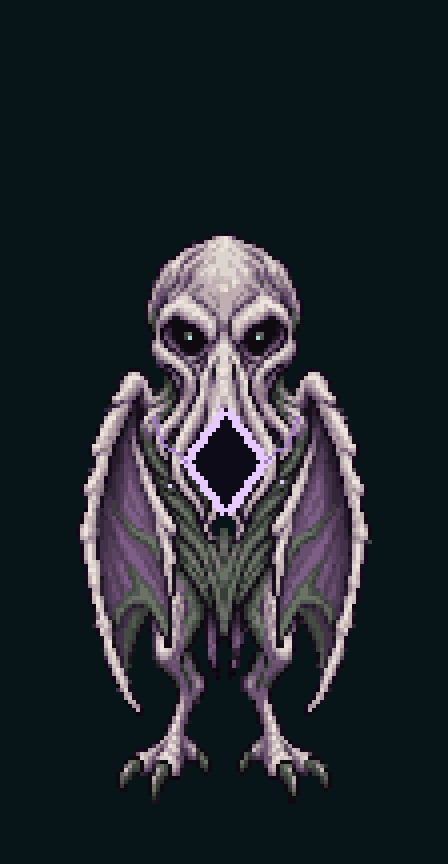
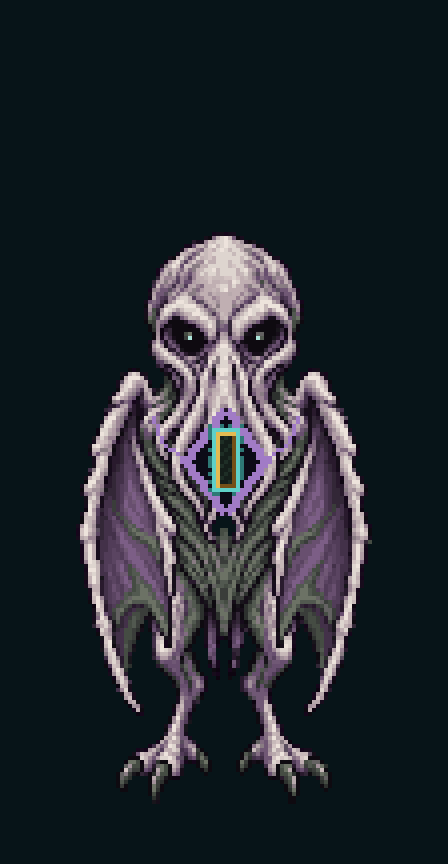
Reuse the established enemy card pixels for Byakhee

Changed region(s): [[0.4062, 0.4688, 0.5938, 0.5938]]

diff --git a/tools/build_byakhee_sheets.py b/tools/build_byakhee_sheets.py
@@ -13,7 +13,6 @@ INK = "#201428"
 VOID = "#0c0b17"
 PLUM = "#5b3c70"
 VIOLET = "#a17bc6"
-PALE = "#e7cafd"
 EYE = "#ade5da"
 EYE_FIRE = "#d8fff2"
 
@@ -87,7 +86,7 @@ def rift(draw: ImageDraw.ImageDraw, rx: int, ry: int, rim: str) -> None:
     draw.line(points + [points[0]], fill=rim, width=2)
 
 
-def effect_frame(frame: int) -> Image.Image:
+def effect_frame(frame: int, cards: Image.Image) -> Image.Image:
     """The actual enemy card appears through this tear at FIRE_FRAME."""
     fx = Image.new("RGBA", (WIDTH, HEIGHT + TOP))
     draw = ImageDraw.Draw(fx)
@@ -105,59 +104,29 @@ def effect_frame(frame: int) -> Image.Image:
         for x, y in ((43, 55), (69, 56), (47, 77), (65, 76)):
             point(draw, x, y, PLUM)
     elif frame == 10:
-        rift(draw, 10, 13, PALE)
+        rift(draw, 10, 13, VIOLET)
         line(draw, [(46, 67), (40, 62), (38, 56)], VIOLET)
         line(draw, [(66, 67), (72, 62), (74, 56)], VIOLET)
-        for x, y in ((54, 53), (60, 77), (42, 73), (70, 72)):
-            point(draw, x, y, PALE)
     elif frame == FIRE_FRAME:
-        # The split and eye flash share the real-card spawn frame.
+        # The violet tear splits behind the shared gold-and-teal card pixels.
         for side in (-1, 1):
             x = 56 + side * 14
             draw.line([(56 + side * 3, 53 + TOP), (x, 56 + TOP),
                        (x + side * 8, 65 + TOP), (x, 78 + TOP),
-                       (x + side * 11, 84 + TOP)], fill=PALE, width=2)
+                       (x + side * 11, 84 + TOP)], fill=VIOLET, width=2)
             line(draw, [(56 + side * 4, 57), (x + side * 3, 66),
                         (x + side * 9, 76)], VIOLET)
-            line(draw, [(x + side * 10, 52), (x + side * 17, 46)], PALE)
-        for x, y in ((24, 56), (88, 57), (21, 78), (91, 80),
-                     (54, 45), (60, 47), (32, 91), (80, 91)):
-            point(draw, x, y, PALE)
-    elif frame == 12:
-        for x, y in ((31, 51), (81, 53), (24, 73), (88, 72),
-                     (50, 37), (63, 39)):
-            point(draw, x, y, PALE if x % 2 else VIOLET)
-        line(draw, [(28, 73), (23, 65), (26, 58)], VIOLET)
-        line(draw, [(84, 73), (89, 65), (86, 58)], VIOLET)
-    elif frame == 13:
-        for x, y in ((43, 49), (69, 48), (52, 32), (61, 34)):
-            point(draw, x, y, PLUM)
+    if 10 <= frame <= 14:
+        # Same source frames 5..9 used by coral, starveling, serpent and colour.
+        source = frame - 5
+        card = cards.crop((source * 96, 0, (source + 1) * 96, 204))
+        bounds = card.getbbox()
+        if bounds:
+            card = card.crop(bounds)
+            center_y = {10: 115, 11: 108, 12: 94, 13: 82, 14: 82}[frame]
+            fx.alpha_composite(card, (56 - card.width // 2,
+                                      center_y - card.height // 2))
     return fx
-
-
-def sample_card() -> Image.Image:
-    """One representative outer card for the GIF; combat draws the real card."""
-    card = Image.new("RGBA", (30, 43), INK)
-    draw = ImageDraw.Draw(card)
-    draw.rectangle((1, 1, 28, 41), outline=PALE, width=1)
-    draw.rectangle((3, 3, 26, 8), fill=PLUM)
-    art = Image.open(ROOT / "art/pixel/cards/death.jpg").convert("RGB")
-    art = art.resize((24, 25), Image.Resampling.NEAREST)
-    card.paste(art, (3, 10))
-    draw.rectangle((3, 36, 26, 39), fill=PLUM)
-    draw.line((5, 37, 23, 37), fill=PALE)
-    return card
-
-
-def with_sample_card(frame: Image.Image, card: Image.Image, progress: float,
-                     opacity: float = 1.0) -> Image.Image:
-    result = frame.copy()
-    overlay = card.copy()
-    overlay.putalpha(overlay.getchannel("A").point(lambda a: int(a * opacity)))
-    center_y = round(HEIGHT * (0.40 + (0.21 - 0.40) * progress)) + TOP
-    result.alpha_composite(overlay, ((WIDTH - card.width) // 2,
-                                     center_y - card.height // 2))
-    return result
 
 
 def main() -> None:
@@ -178,7 +147,7 @@ def main() -> None:
     fx_sheet = Image.new("RGBA", (WIDTH * FRAMES, HEIGHT + TOP))
     contact = Image.new("RGBA", (WIDTH * FRAMES, HEIGHT + TOP), (7, 20, 24, 255))
     previews = []
-    card = sample_card()
+    cards = Image.open(PIXELS / "fanatic_fx_1.png").convert("RGBA")
     for frame, pose in enumerate(poses):
         sprite = Image.new("RGBA", (WIDTH, HEIGHT))
         sprite.alpha_composite(pose, (0, hover[frame]))
@@ -187,15 +156,11 @@ def main() -> None:
             eyes.point((x, 36 + hover[frame]),
                        fill=EYE_FIRE if frame == FIRE_FRAME else EYE)
         body.alpha_composite(sprite, (frame * WIDTH, 0))
-        fx = effect_frame(frame)
+        fx = effect_frame(frame, cards)
         fx_sheet.alpha_composite(fx, (frame * WIDTH, 0))
         preview = Image.new("RGBA", (WIDTH, HEIGHT + TOP), (7, 20, 24, 255))
         preview.alpha_composite(sprite, (0, TOP))
         preview.alpha_composite(fx)
-        if frame >= FIRE_FRAME:
-            progress = min(1.0, (frame - FIRE_FRAME) / 2.0)
-            preview = with_sample_card(preview, card, progress,
-                                       0.65 if frame == FIRE_FRAME else 1.0)
         contact.alpha_composite(preview, (frame * WIDTH, 0))
         previews.append(preview)
     body.save(PIXELS / "byakhee_body_1.png")
